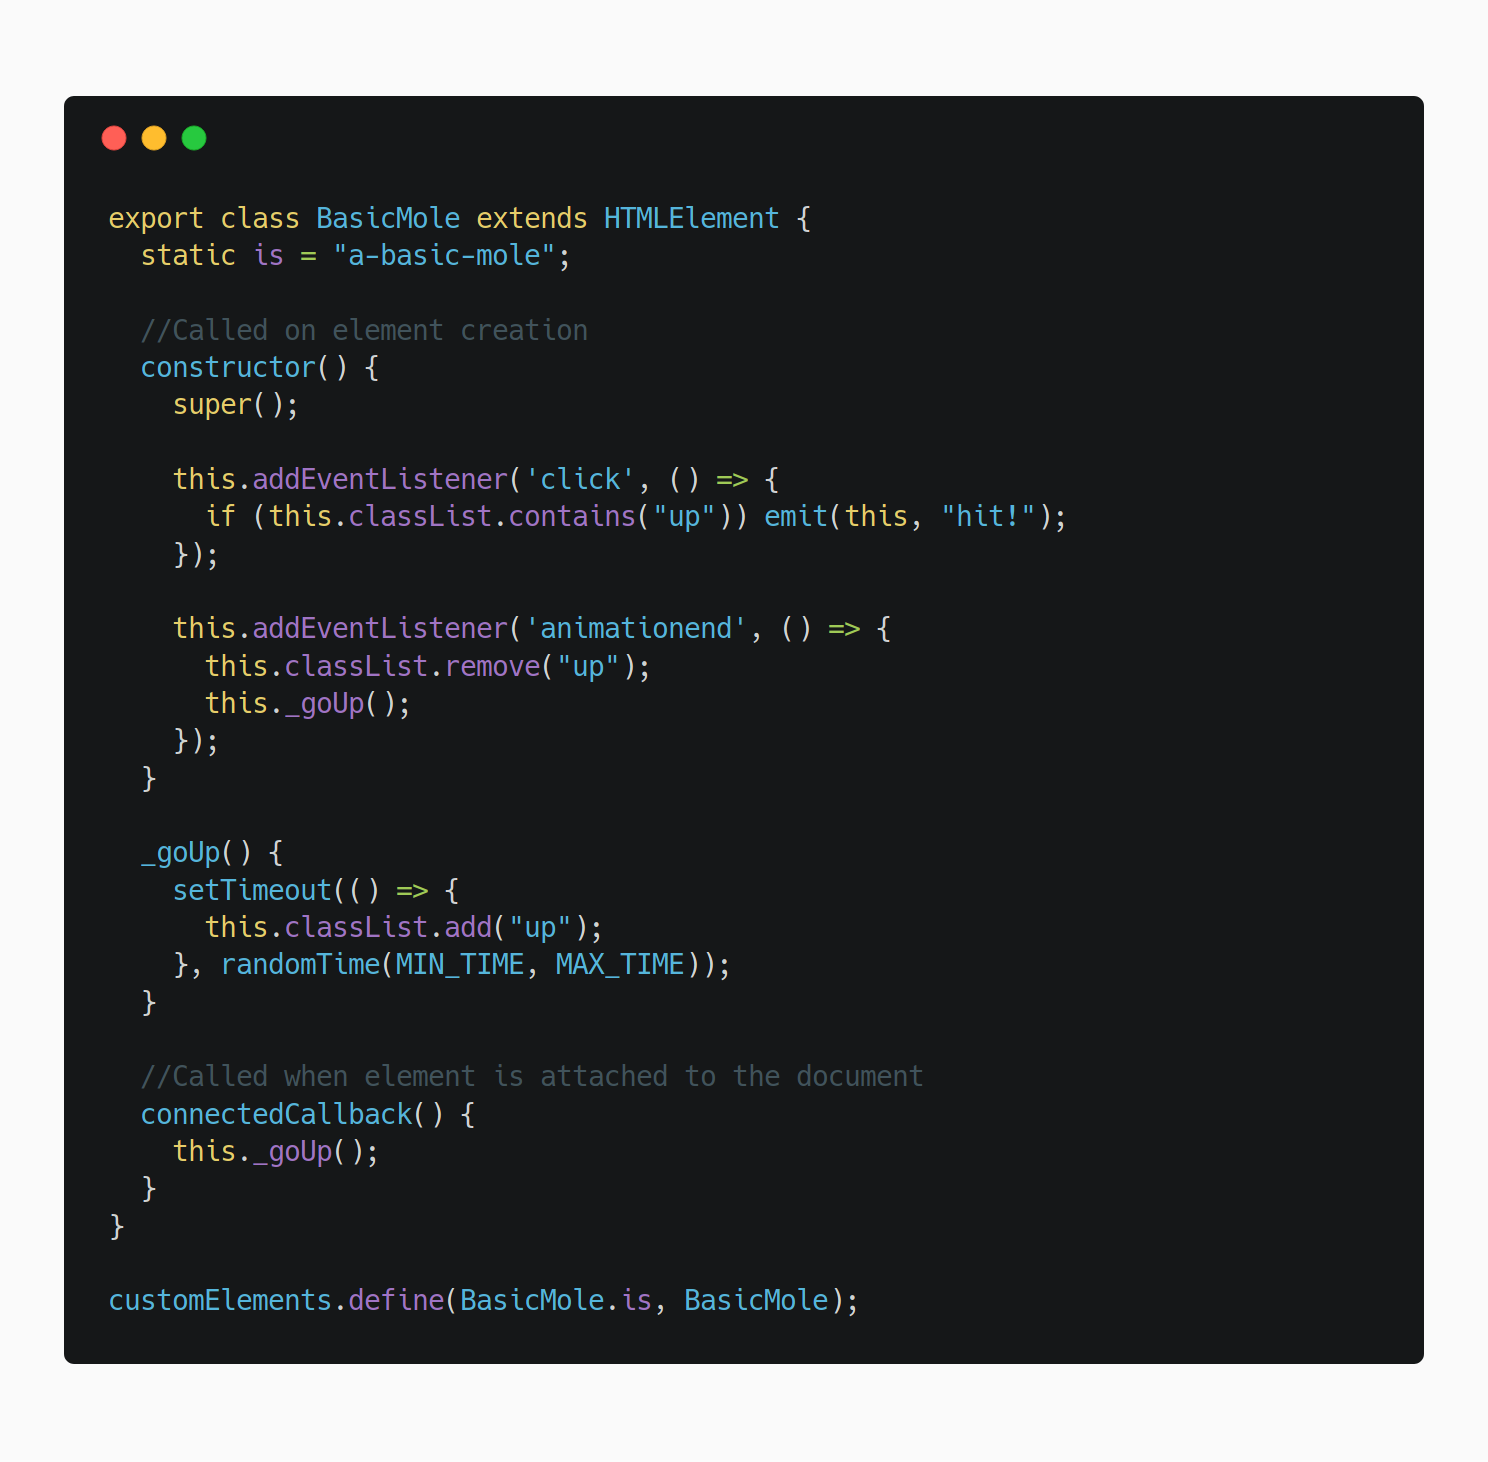
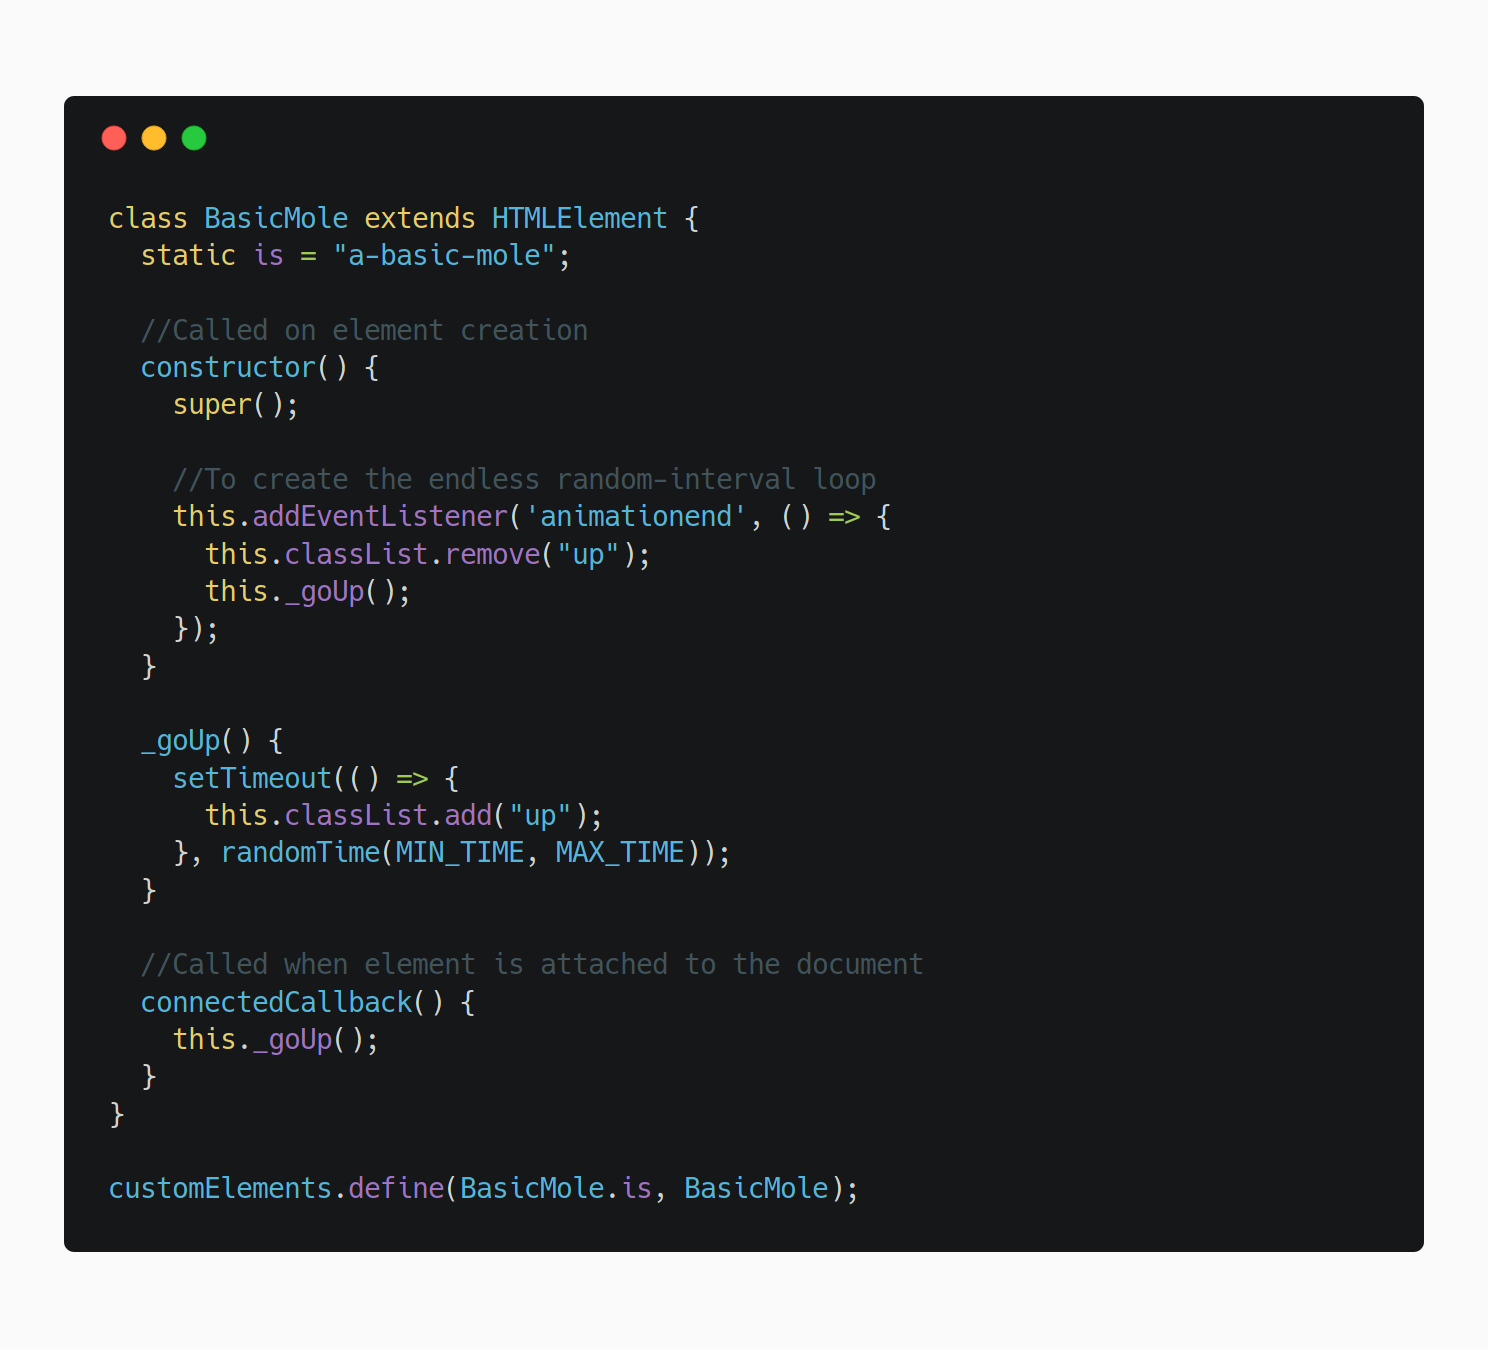
arghhhh

diff --git a/packages/slides/index.html b/packages/slides/index.html
@@ -21,21 +21,13 @@
             </x-slide>
             <x-slide>
                 <h2>A vanilla web app</h2>
-                <p>Do things by using the platform</p>
+                <p>Define <b>UI</b> and it's mutations by using <b>directly</b> the platform</p>
             </x-slide>
             <x-slide>
-                <h2>Our constraints</h2>
+                <h2>Why?</h2>
                 <ul>
-                    <li>SSR, for SEO reasons</li>
-                    <li>Do not change our server view layer (based on PHP)</li>
-                </ul>
-            </x-slide>
-            <x-slide>
-                <h2>Our objectives</h2>
-                <ul>
-                    <li>Good Time To Interactive</li>
-                    <li>No janky interactions</li>
-                    <li>Find out how much we can scale without a framework</li>
+                    <li>To reduce the dependencies & the <b>bundle size</b></li>
+                    <li>Easier & cheaper <b>SSR</b> (essential if you need SEO)</li>
                 </ul>
             </x-slide>
             <x-slide>
@@ -43,12 +35,10 @@
             </x-slide>
             <x-slide>
                 <h2>&lt;Custom-Elements&gt;</h2>
-                <p>Javascript classes that extends HTML</p>
-            </x-slide>    
-            <x-slide>
-                <img src="images/code-examples/simple-mole.png" class="full">
-            </x-slide>
+                <p>The native way to define your own elements in HTML</p>
+            </x-slide> 
             <x-slide class="example1">
+                <h2>Let's play whack-a-mole!</h2>
                 <div class="col-3">
                     <a-basic-mole></a-basic-mole>
                     <a-basic-mole></a-basic-mole>
@@ -57,26 +47,35 @@
                 <img src="images/code-examples/ce-html.png">
             </x-slide>
             <x-slide>
+                <img src="images/code-examples/simple-mole.png" class="full">
+            </x-slide>
+            <x-slide>
                 <h2>&lt;Custom-Elements&gt;</h2>
-                <p>Good for generic components</p>
-                <p>No business/page related logic</p>
+                <p>Very reusable (even across frameworks)</p>
+                <p>Good for generic components (like autocompletes, moles, etc)</p>
             </x-slide>
             <x-slide>
                 <h2>What about support?</h2>
                 <p>They are natively supported only by Chrome</p>
-                <p>The polyfill can be easly conditionally loaded!</p>
+                <p>The polyfill can be conditionally loaded! (link to the gist)</p>
             </x-slide>
             <x-slide>
-                <img src="images/code-examples/polyfill.png" class="full">
+                <h2>Functional components</h2>
+                <p>Simple, lightweight & powerful</p>
             </x-slide>
             <x-slide>
-                <img src="images/code-examples/app-startup.png" class="full">
-            </x-slide>
-            <x-slide>
-                <h2>Functions as Components!</h2>
+                <h2>What makes a function a "Functional component?"</h2>
+                <ul>
+                    <li>It isn't a class</li>
+                    <li>Takes an element as input</li>
+                    <li>Manipulate only the input element and it's subtree</li>
+                </ul>
             </x-slide>
             <x-slide>
                 <img src="images/code-examples/simple-whack.png" class="full">
+            </x-slide>
+            <x-slide>
+                <img src="images/code-examples/mole.png" class="full">
             </x-slide>
             <x-slide class="example2">
                 <button class="start">Start</button>
@@ -102,13 +101,6 @@
                     <a-mole></a-mole>
                     <a-mole></a-mole>
                 </div>
-            </x-slide>
-            <x-slide>
-                <img src="images/code-examples/mole.png" class="full">
-            </x-slide>
-            <x-slide>
-                <h2>Functions as Components!</h2>
-                <p>Good for implement business/page logic</p>
             </x-slide>
             <x-slide>
                 <h2>State managment</h2>

diff --git a/packages/slides/src/example/BasicMole.js b/packages/slides/src/example/BasicMole.js
@@ -1,5 +1,4 @@
 import { define, HTMLElement } from "my-custom-elements-loader";
-import { emit } from "../emit";
 
 const MIN_TIME = 500;
 const MAX_TIME = 3000;
@@ -14,11 +13,8 @@ export class BasicMole extends HTMLElement {
   //Called on element creation
   constructor() {
     super();
-
-    this.addEventListener('click', () => {
-      if (this.classList.contains("up")) emit(this, "hit!");
-    });
-
+    
+    //To create the endless random-interval loop
     this.addEventListener('animationend', () => {
       this.classList.remove("up");
       this._goUp();
